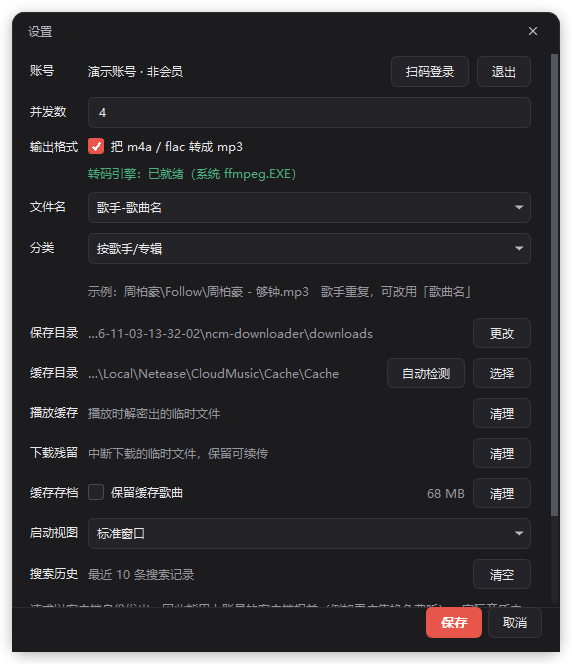
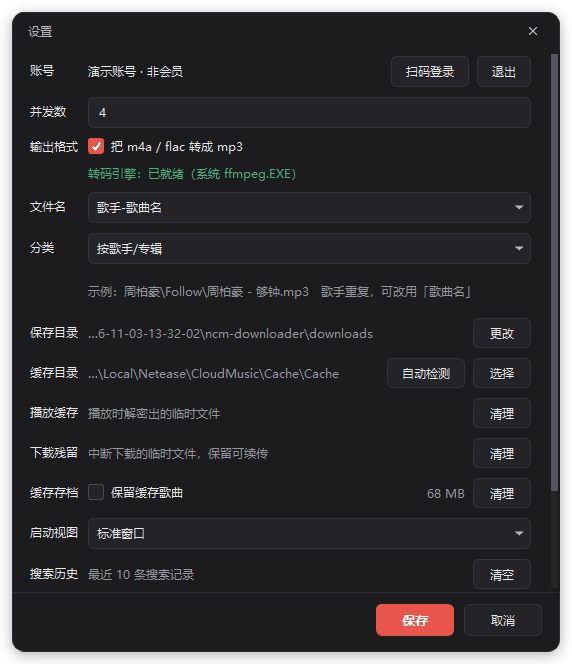
设置页底部：透明背景保住圆角，按钮尺寸与间距调整

diff --git a/gui/dialog.py b/gui/dialog.py
@@ -143,15 +143,23 @@ class RoundDialog(QDialog):
         # 「保存 / 取消」就被顶到看不见的地方，用户只能瞎点
         footer = QWidget(self._root)
         footer.setObjectName("dialogFooter")
-        # 加一条分隔线：内容滚到边缘时，没有线会分不清「被裁掉的正文」和按钮区
+        # 背景必须透明：QWidget 一旦设了 stylesheet 就会用调色板底色铺满，
+        # 铺成实色方块后会把 windowRoot 的下半部分圆角盖成直角
+        footer.setAttribute(Qt.WA_StyledBackground, True)
         footer.setStyleSheet(
-            "QWidget#dialogFooter { border-top: 1px solid #2c2c33; }"
+            "QWidget#dialogFooter { background: transparent;"
+            " border-top: 1px solid #2c2c33; }"
         )
         footer_layout = QVBoxLayout(footer)
-        footer_layout.setContentsMargins(18, 0, 18, 14)
+        # 上边留白把分隔线让开，底部多留一点，按钮别贴着圆角
+        footer_layout.setContentsMargins(18, 12, 18, 16)
         footer_layout.setSpacing(0)
         for box in self.body.findChildren(QDialogButtonBox):
             self.body_layout.removeWidget(box)
+            # 按钮统一高度、拉开间距，默认间距在深色下显得挤
+            box.layout().setSpacing(10) if box.layout() else None
+            for button in box.buttons():
+                button.setMinimumSize(78, 32)
             footer_layout.addWidget(box)
 
         stack = self._root.layout()

diff --git a/CHANGELOG.md b/CHANGELOG.md
@@ -15,6 +15,8 @@
 - **退出登录后旧结果还在**：`_logout` 只清 cookie，列表和详情缓存都留着。现在会一并清空。
 - **设置页在小屏上按钮被顶出屏幕**：内容一多「保存/取消」就看不见了。改为中间滚动、
   按钮固定在底部，窗口高度按内容撑开但最多 640。
+- 设置页底部按钮区原来是实色方块，把窗口两个下圆角盖成了直角；改为透明背景，
+  按钮统一 78×32、间距 10、距边 16，深色下不再挤成一团。
 
 ### 新增
 
